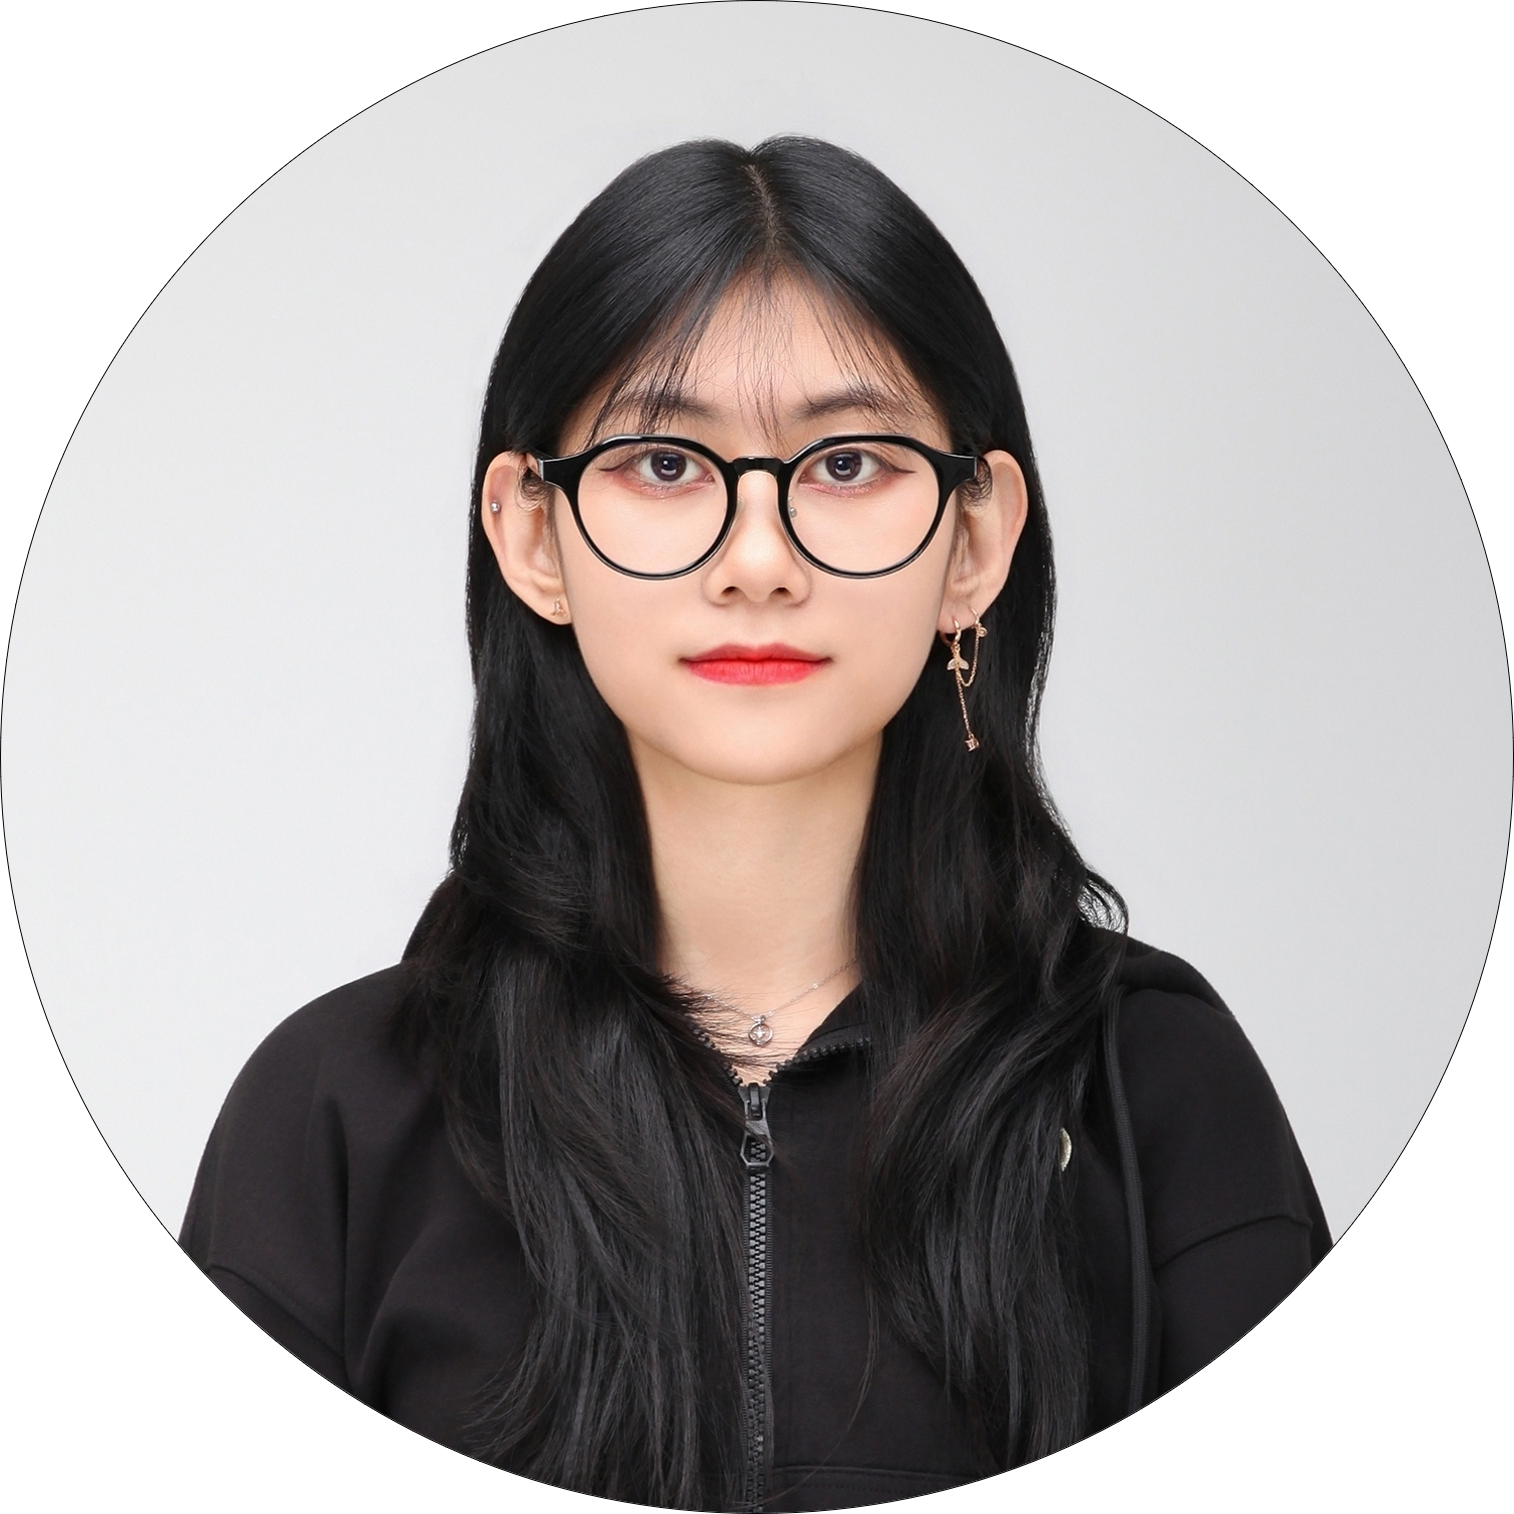
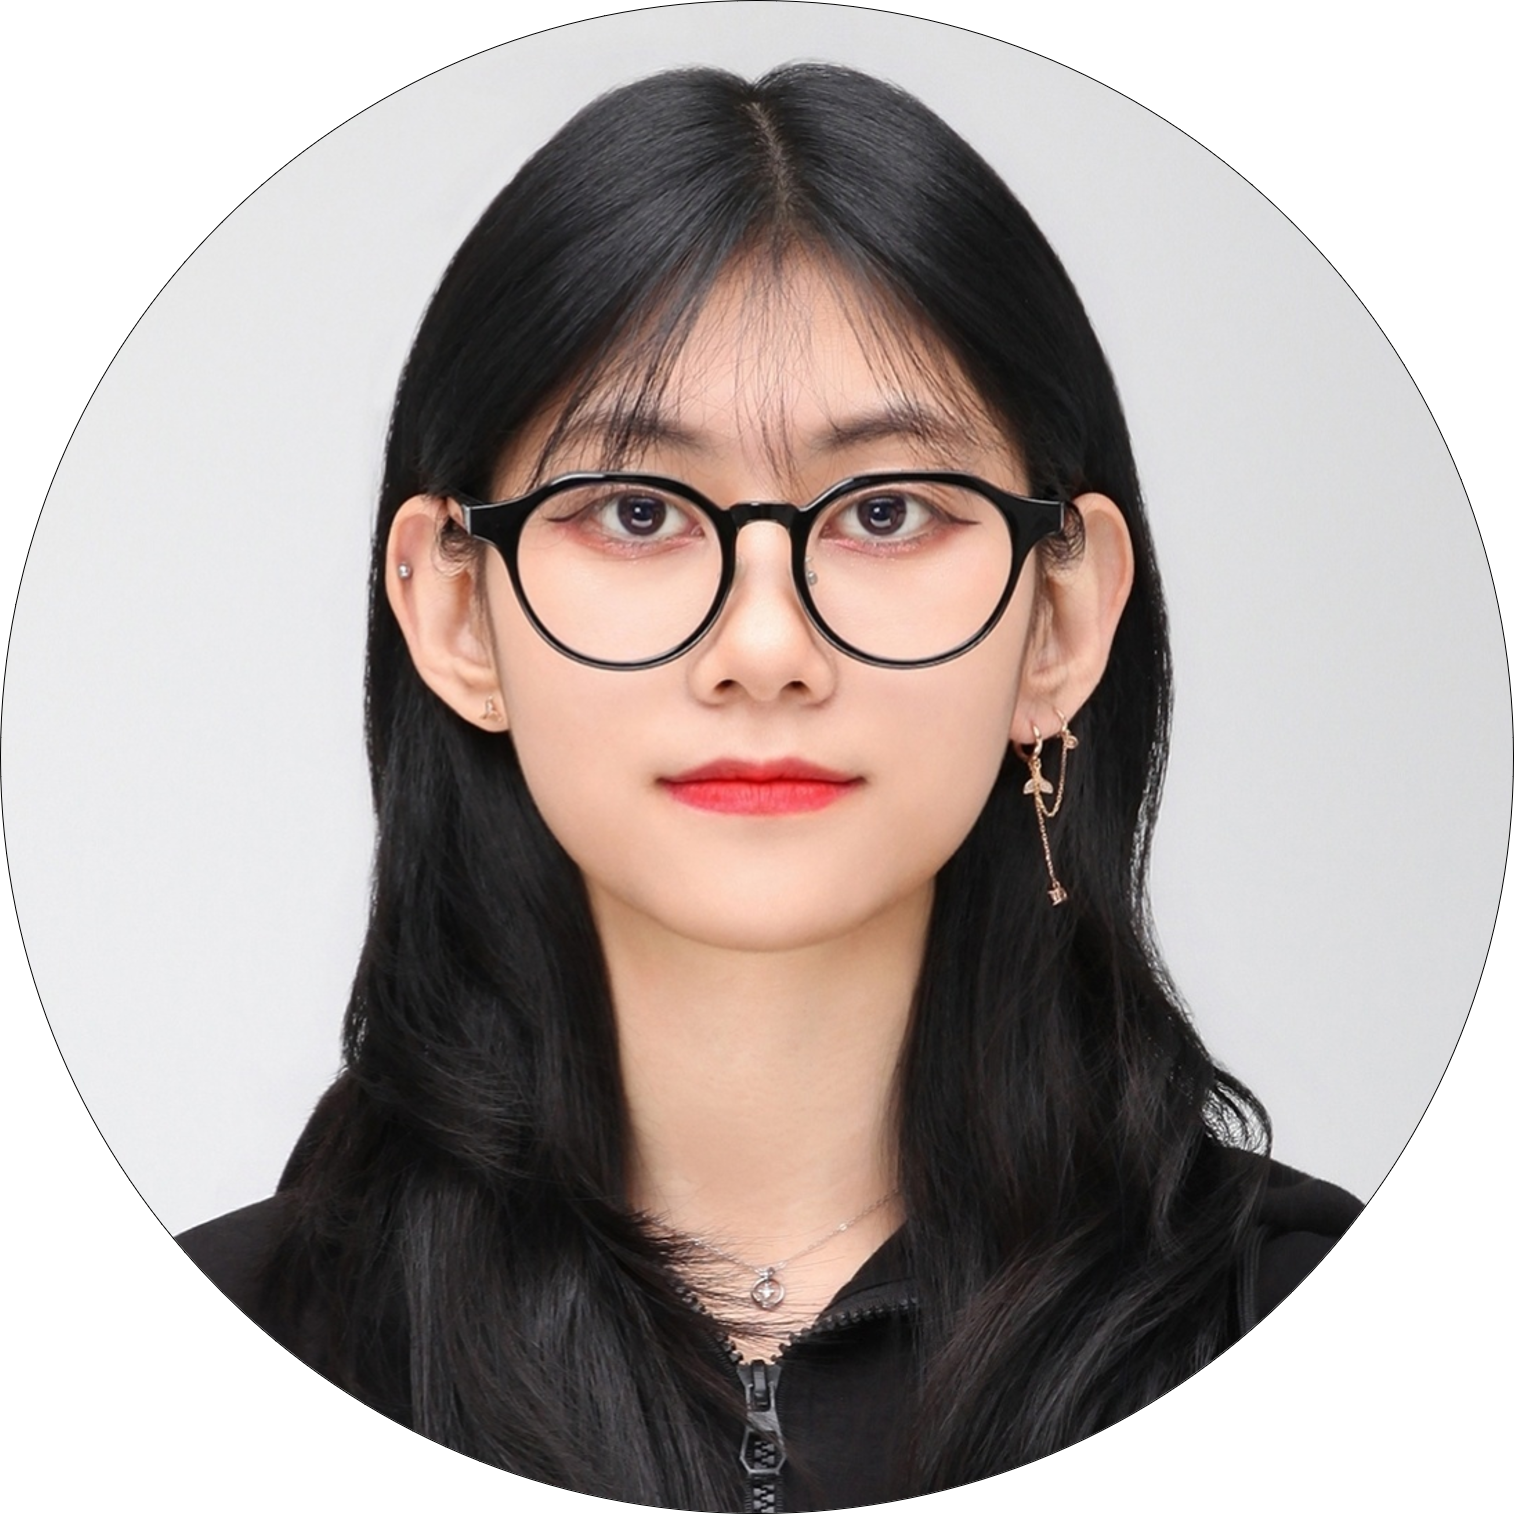
Fix
minor

diff --git a/team.md b/team.md
@@ -411,7 +411,7 @@ permalink: /team/
     <div class="team-grid">
       <article class="profile">
         <div class="profile-photo">
-          <img src="{{ '/assets/img/team/donghyeon_jeon.png' | relative_url }}" alt="Donghyeon Jeon"
+          <img src="{{ '/assets/img/team/donghyeon_jeon.jpg' | relative_url }}" alt="Donghyeon Jeon"
                onerror="this.style.display='none'; this.parentElement.classList.add('is-empty');">
         </div>
 
